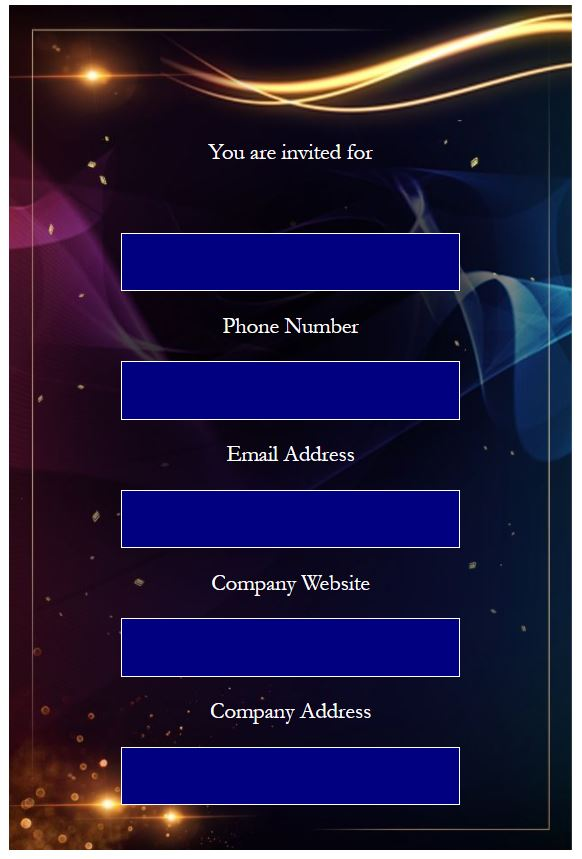
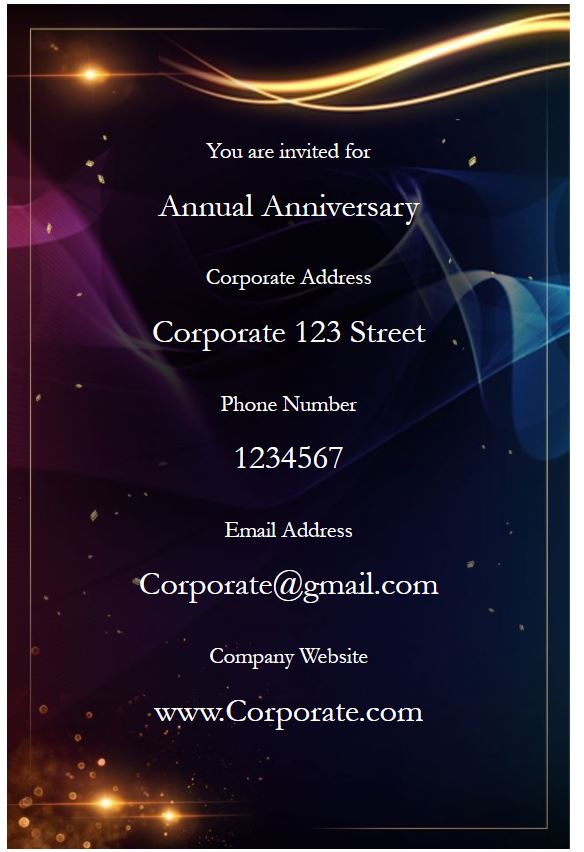
shange

diff --git a/CorporateTemplate2.html b/CorporateTemplate2.html
@@ -8,7 +8,7 @@ git init
 git add README.md
 git commit -m "first commit"
 git branch -M main
-git remote add origin https://github.com/Zaghloul22/BWEP-Assignment-2-DITN11-Grop-2.git
+git remote add origin https://github.com/Zaghloul22/BWEP-Assignment-2-DITN11-Group-2.git
 git push -u origin main-->
 
 <style media="screen">
@@ -39,77 +39,100 @@ git push -u origin main-->
     font-weight: bolder;
   }
 
-  .drag2{
+  #Event, #Address, #Phone, #Email, #Website{
     height: 50px;
     width: 300px;
     padding: 0;
-    font-size: 20px;
+    font-size: 30px;
     font-family: Garamond;
-    border:1px solid white;
     margin: 0 auto;
-    background-color: navy;
+    color: white;
   }
 
   input,textarea{
     background-color: navy;
     color: white;
   }
+
+  form{
+    width: 600px;
+    text-align: center;
+    padding: 0;
+    margin: 0 auto;
+    border: 2px solid black;
+    display: block;
+
+  }
 </style>
 <script>
-function allowDrop(event) {
-  event.preventDefault();
-}
+function ChangeMe(){
+  var eventname = document.getElementById("eventname").value;
+  var address = document.getElementById("address").value;
+  var phone = document.getElementById("phone").value;
+  var email = document.getElementById("email").value;
+  var website = document.getElementById("website").value;
 
-function drag(event) {
-  event.dataTransfer.setData("text", event.target.class);
-}
-
-function drop(event) {
-  event.preventDefault();
-  var data = event.dataTransfer.getData("text");
-  event.target.appendChild(document.getElementById(data));
+  var box1 = document.getElementById("Event");
+  box1.innerHTML = eventname;
+  var box2 = document.getElementById("Address");
+  box2.innerHTML = address;
+  var box3 = document.getElementById("Phone");
+  box3.innerHTML = phone;
+  var box4 = document.getElementById("Email");
+  box4.innerHTML = email;
+  var box5 = document.getElementById("Website");
+  box5.innerHTML = website;
 }
 </script>
   </head>
   <body>
     <div>
       <div id="content">
-      <p>You are invited for</p>
-      <p id="Company"><div class="drag2" ondrop="drop(event)" ondragover="allowDrop(event)"></div></p>
-      <p>Phone Number</p>
-      <div class="drag2" ondrop="drop(event)" ondragover="allowDrop(event)"></div>
-      <p>Email Address</p>
-      <div class="drag2" ondrop="drop(event)" ondragover="allowDrop(event)"></div>
-      <p>Company Website</p>
-      <div class="drag2" ondrop="drop(event)" ondragover="allowDrop(event)"></div>
-      <p>Company Address</p>
-      <div class="drag2" ondrop="drop(event)" ondragover="allowDrop(event)"></div>
+        <p>You are invited for</p>
+        <p id="Event">Annual Anniversary</p>
+
+        <p>Corporate Address</p>
+        <div id="Address">Corporate 123 Street</div>
+
+        <p>Phone Number</p>
+      <div id="Phone">1234567</div>
+
+        <p>Email Address</p>
+      <div id="Email">Corporate@gmail.com</div>
+
+        <p>Company Website</p>
+      <div id="Website">www.Corporate.com</div>
+      </div>
     </div>
 
+  <form>
     <label>Event name:</label>
-    <div class="drag1" ondrop="drop(event)" ondragover="allowDrop(event)">
-      <input type="text" draggable="true" ondragstart="drag(event)"><br>
+    <div class="drag1">
+      <input id="eventname" type="text"/><br>
     </div>
 
     <label>Phone Number</label>
-    <div class="drag1" ondrop="drop(event)" ondragover="allowDrop(event)">
-      <input type="number" pattern="[\d]{7}" draggable="true" ondragstart="drag(event)"><br>
+    <div class="drag1">
+      <input id="phone" type="number" pattern="[\d]{7}"/><br>
     </div>
 
     <label>Email address</label>
-    <div class="drag1" ondrop="drop(event)" ondragover="allowDrop(event)">
-      <input type="email" draggable="true" ondragstart="drag(event)"><br>
+    <div class="drag1">
+      <input id="email" type="email"/><br>
     </div>
 
     <label>Website</label>
-    <div class="drag1" ondrop="drop(event)" ondragover="allowDrop(event)">
-      <input type="url" draggable="true" ondragstart="drag(event)"><br>
+    <div class="drag1">
+      <input id="website" type="url"/><br>
     </div>
 
     <label>Address</label>
-    <div  class="drag1" ondrop="drop(event)" ondragover="allowDrop(event)">
-      <textarea name="name" rows="8" cols="80" draggable="true" ondragstart="drag(event)"></textarea><br>
+    <div  class="drag1">
+      <textarea id="address" name="name" rows="8" cols="80"></textarea><br>
     </div>
+
+    <button type="button" name="button" onclick="ChangeMe()">Submit</button>
+  </form>
 
     <button type="button" name="button"><a href = "Assigment.html">Back</a></button>
     </div>
